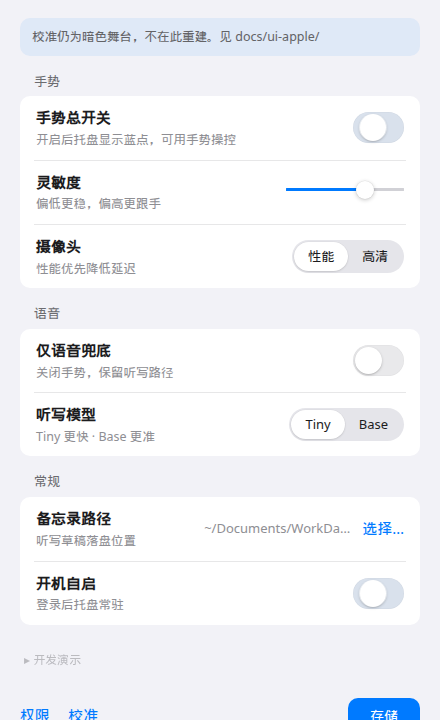
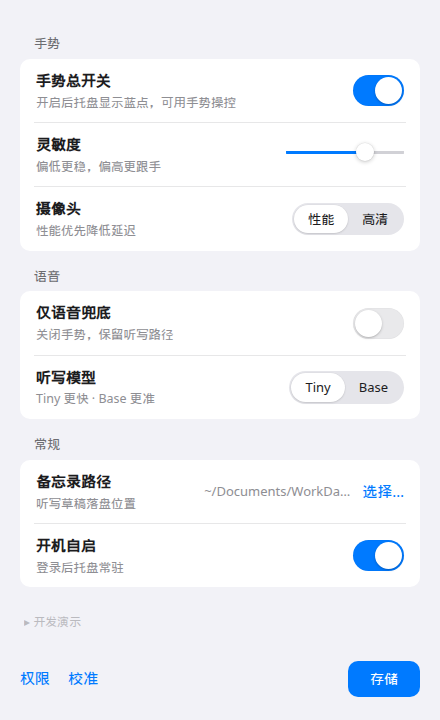
fix: Lumen nits — drop settings tip bar, gray permissions eyebrow
Remove the docs/ui-apple/ notice from settings and use system gray
for the permissions 「首次设置」 eyebrow. Recapture docs/ui-apple shots.

diff --git a/apps/desktop/ui/styles.css b/apps/desktop/ui/styles.css
@@ -524,7 +524,7 @@ body.skin-apple h1 {
   color: var(--text);
 }
 body.skin-apple .eyebrow {
-  color: #ff9500;
+  color: #8e8e93;
   font-size: 13px;
   font-weight: 600;
   letter-spacing: 0;
@@ -535,17 +535,6 @@ body.skin-apple .sub {
   font-size: 13px;
   margin-top: 6px;
   max-width: 34em;
-}
-
-body.skin-apple .notice {
-  margin: 0 0 14px;
-  padding: 10px 12px;
-  border-radius: 10px;
-  background: rgba(0, 122, 255, 0.08);
-  color: #636366;
-  font-size: 12.5px;
-  line-height: 1.4;
-  border: none;
 }
 
 body.skin-apple .banner {

diff --git a/apps/desktop/ui/settings.html b/apps/desktop/ui/settings.html
@@ -7,8 +7,6 @@
   <link rel="stylesheet" href="styles.css" />
 </head>
 <body class="skin-apple">
-  <p class="notice">校准仍为暗色舞台，不在此重建。见 docs/ui-apple/</p>
-
   <div id="visionBanner" class="banner" hidden></div>
 
   <div class="group">
